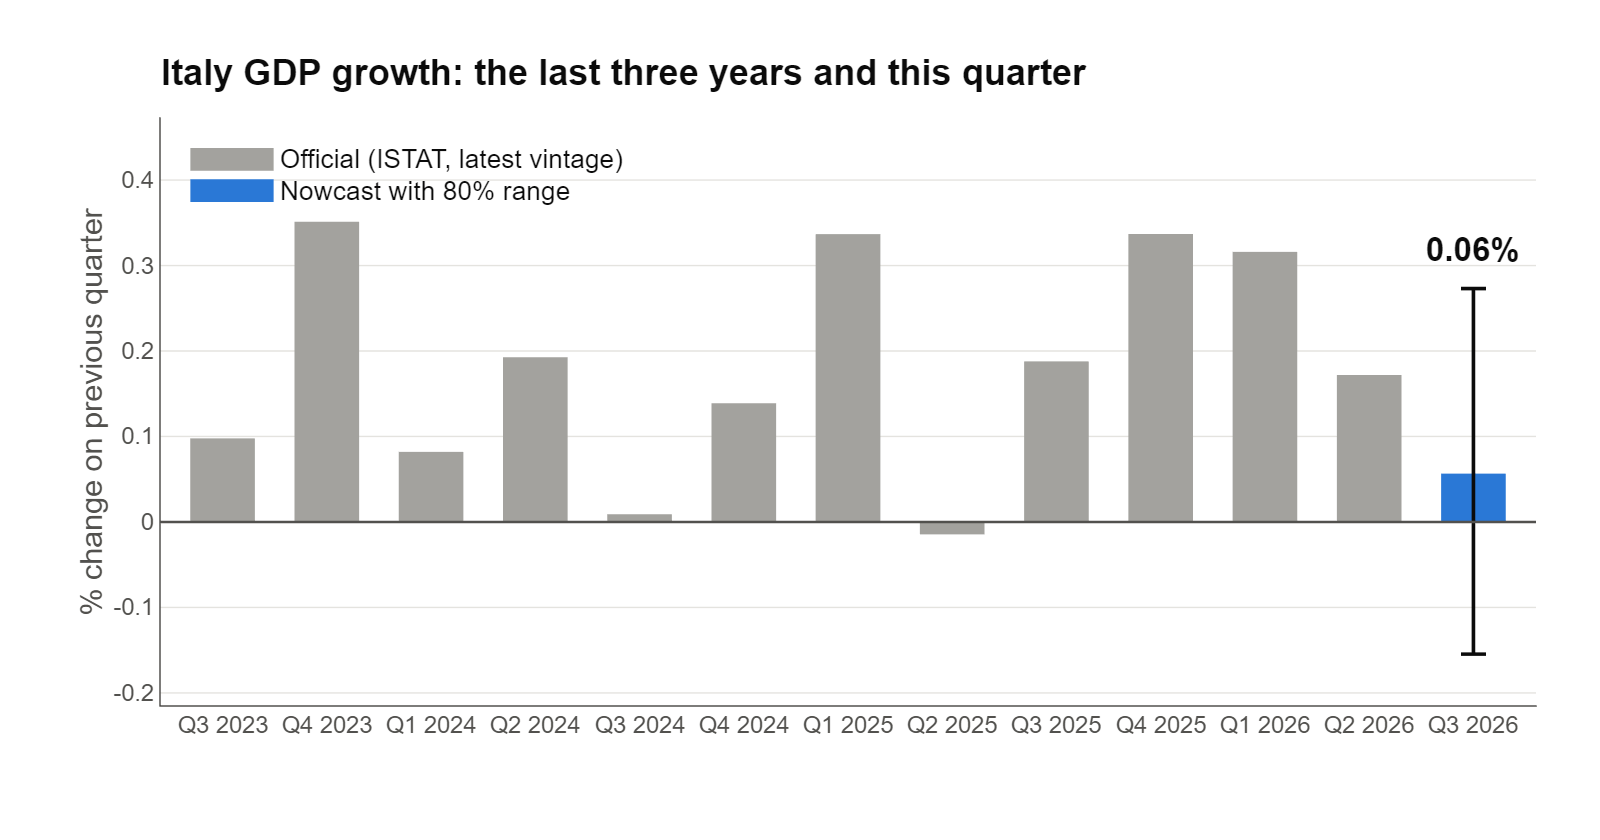
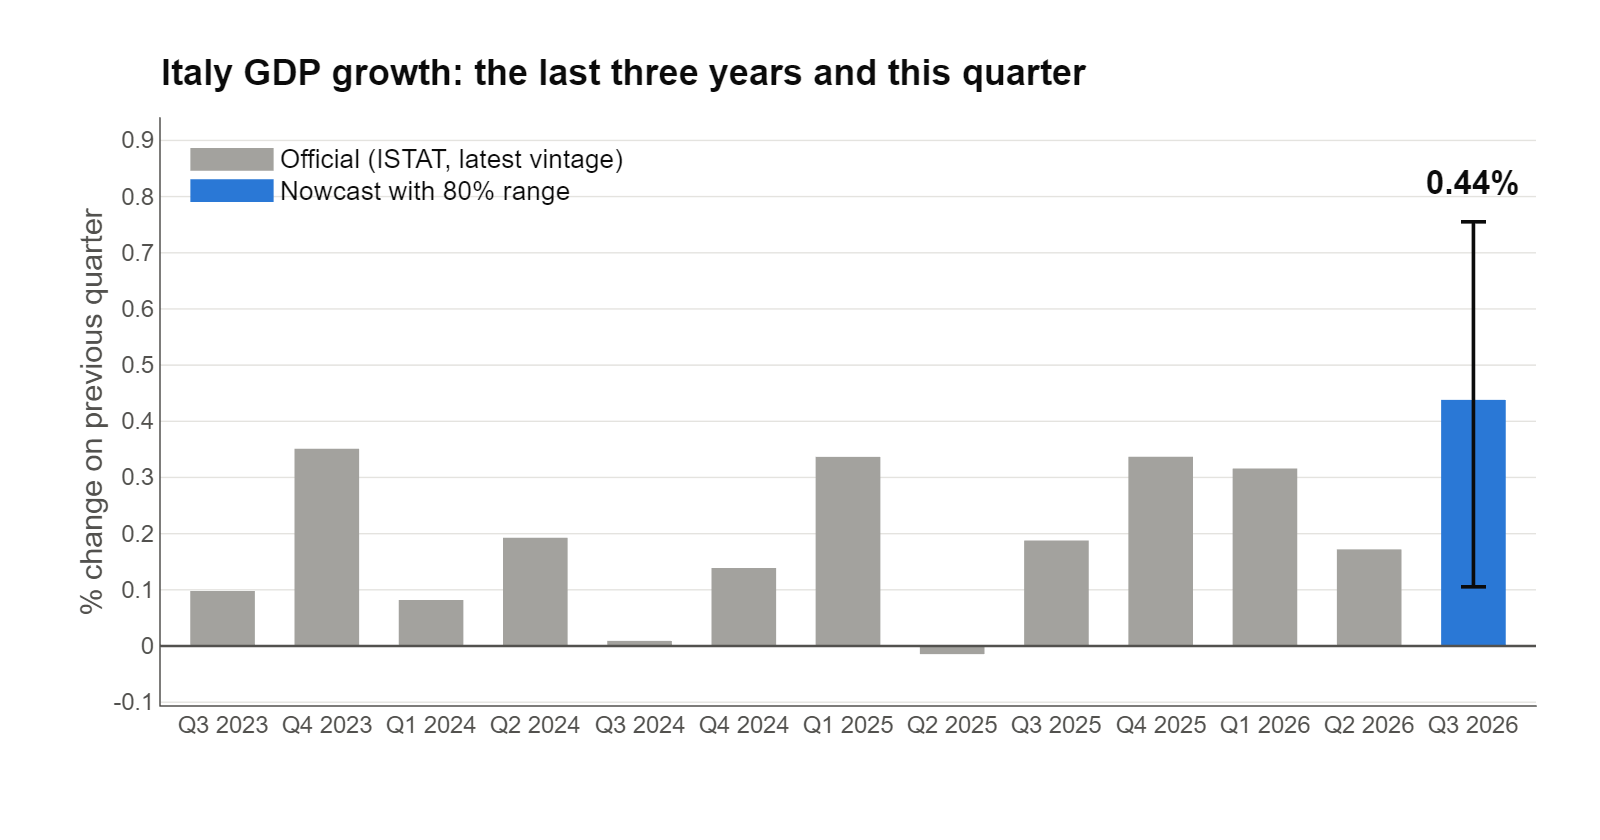
Update GDP nowcast

diff --git a/_pages/nowcast.md b/_pages/nowcast.md
@@ -5,9 +5,9 @@ permalink: /nowcast/
 author_profile: true
 ---
 
-**Latest estimate, 2 October 2026:** Italy's real GDP in **Q3 2026** grew by **0.06%** compared with the previous quarter.
-Likely range (80% probability): -0.15% to 0.27%. Compared with a year earlier: 0.88%.
-The estimate is down 0.19 percentage points from last week.
+**Latest estimate, 2 October 2026:** Italy's real GDP in **Q3 2026** grew by **0.44%** compared with the previous quarter.
+Likely range (80% probability): 0.11% to 0.76%. Compared with a year earlier: 1.26%.
+The estimate is down 0.25 percentage points from last week.
 {: .notice--primary style="font-size: 1.1em !important; line-height: 1.6;"}
 
 *Updated every Friday. Next official figure: ISTAT preliminary estimate for Q3 2026, due 30 October 2026.*
@@ -23,7 +23,7 @@ Each point is the estimate made on that Friday with the data available at the ti
 
 ## What changed this week
 
-The data published this week moved the estimate by -0.19 percentage points (consumption -0.21, surveys +0.07, prices & rates -0.06).
+The data published this week moved the estimate by -0.25 percentage points (prices & rates -0.15, consumption -0.12, revisions -0.08).
 
 ![Contribution of this week's data releases to the change in the nowcast](web_news_week.png)
 
@@ -56,20 +56,20 @@ Grey bars are official ISTAT figures (latest available vintage); the blue bar is
 
 | Estimate made on | Quarter-on-quarter | 80% range | Year-on-year |
 |---|---:|---:|---:|
-| 2 October 2026 | 0.06% | -0.15% to 0.27% | 0.88% |
-| 25 September 2026 | 0.25% | 0.02% to 0.47% | 1.07% |
-| 18 September 2026 | 0.25% | 0.02% to 0.47% | 1.07% |
-| 11 September 2026 | 0.30% | 0.06% to 0.52% | 1.12% |
-| 4 September 2026 | 0.21% | -0.03% to 0.44% | 1.04% |
-| 28 August 2026 | 0.28% | -0.05% to 0.61% | 1.12% |
-| 21 August 2026 | 0.30% | -0.04% to 0.63% | 1.14% |
-| 14 August 2026 | 0.30% | -0.04% to 0.63% | 1.14% |
-| 7 August 2026 | 0.29% | -0.04% to 0.63% | 1.13% |
-| 31 July 2026 | 0.67% | 0.27% to 1.08% | 1.52% |
-| 24 July 2026 | 0.39% | -0.13% to 0.85% | 1.76% |
-| 17 July 2026 | 0.38% | -0.09% to 0.86% | 1.76% |
-| 10 July 2026 | 0.40% | -0.08% to 0.89% | 1.81% |
-| 3 July 2026 | 0.48% | -0.03% to 0.99% | 1.87% |
+| 2 October 2026 | 0.44% | 0.11% to 0.76% | 1.26% |
+| 25 September 2026 | 0.69% | 0.17% to 1.22% | 1.52% |
+| 18 September 2026 | 0.69% | 0.17% to 1.22% | 1.52% |
+| 11 September 2026 | 0.77% | 0.25% to 1.30% | 1.60% |
+| 4 September 2026 | 0.72% | 0.19% to 1.25% | 1.55% |
+| 28 August 2026 | 0.94% | 0.32% to 1.59% | 1.78% |
+| 21 August 2026 | 0.95% | 0.33% to 1.60% | 1.79% |
+| 14 August 2026 | 0.95% | 0.33% to 1.60% | 1.79% |
+| 7 August 2026 | 0.95% | 0.32% to 1.62% | 1.79% |
+| 31 July 2026 | 1.36% | 0.64% to 2.12% | 2.20% |
+| 24 July 2026 | 1.02% | 0.08% to 2.01% | 2.48% |
+| 17 July 2026 | 1.02% | 0.08% to 2.01% | 2.48% |
+| 10 July 2026 | 1.05% | 0.11% to 2.04% | 2.52% |
+| 3 July 2026 | 1.12% | 0.15% to 2.12% | 2.60% |
 
 ![Year-on-year nowcast](web_nowcast_yoy.png)
 
@@ -152,4 +152,4 @@ Grey bars are official ISTAT figures (latest available vintage); the blue bar is
 
 ---
 
-<small>Page generated automatically on 02 Oct 2026 12:18.</small>
+<small>Page generated automatically on 02 Oct 2026 16:38.</small>
